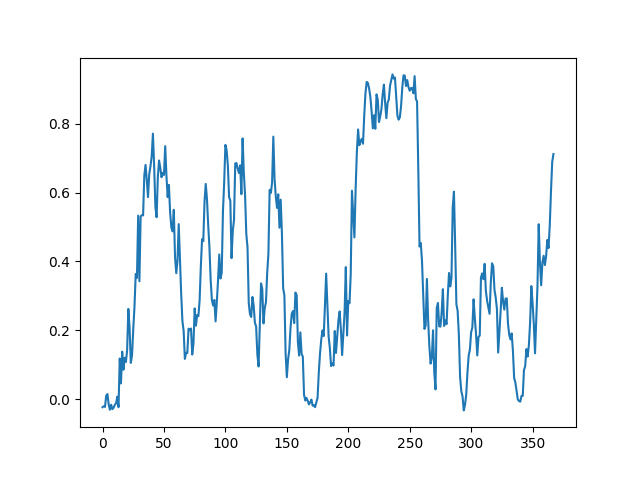
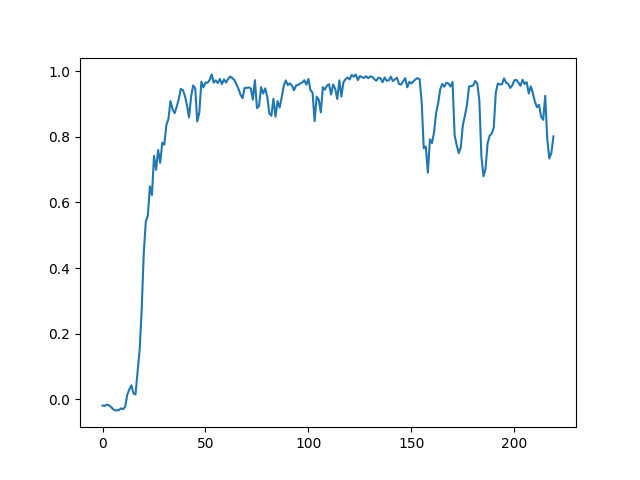
fixed merge errors

diff --git a/main.py b/main.py
@@ -273,12 +273,8 @@ def control_input_position_based_with_threshold(boid, flock, sensor_range, delta
 dt = 0.1  # ???
 
 
+
 def update(flock, t, gamma_t):
-
-
-
-
-def update(flock, t):
     
     #Update time step
     dt = 0.1